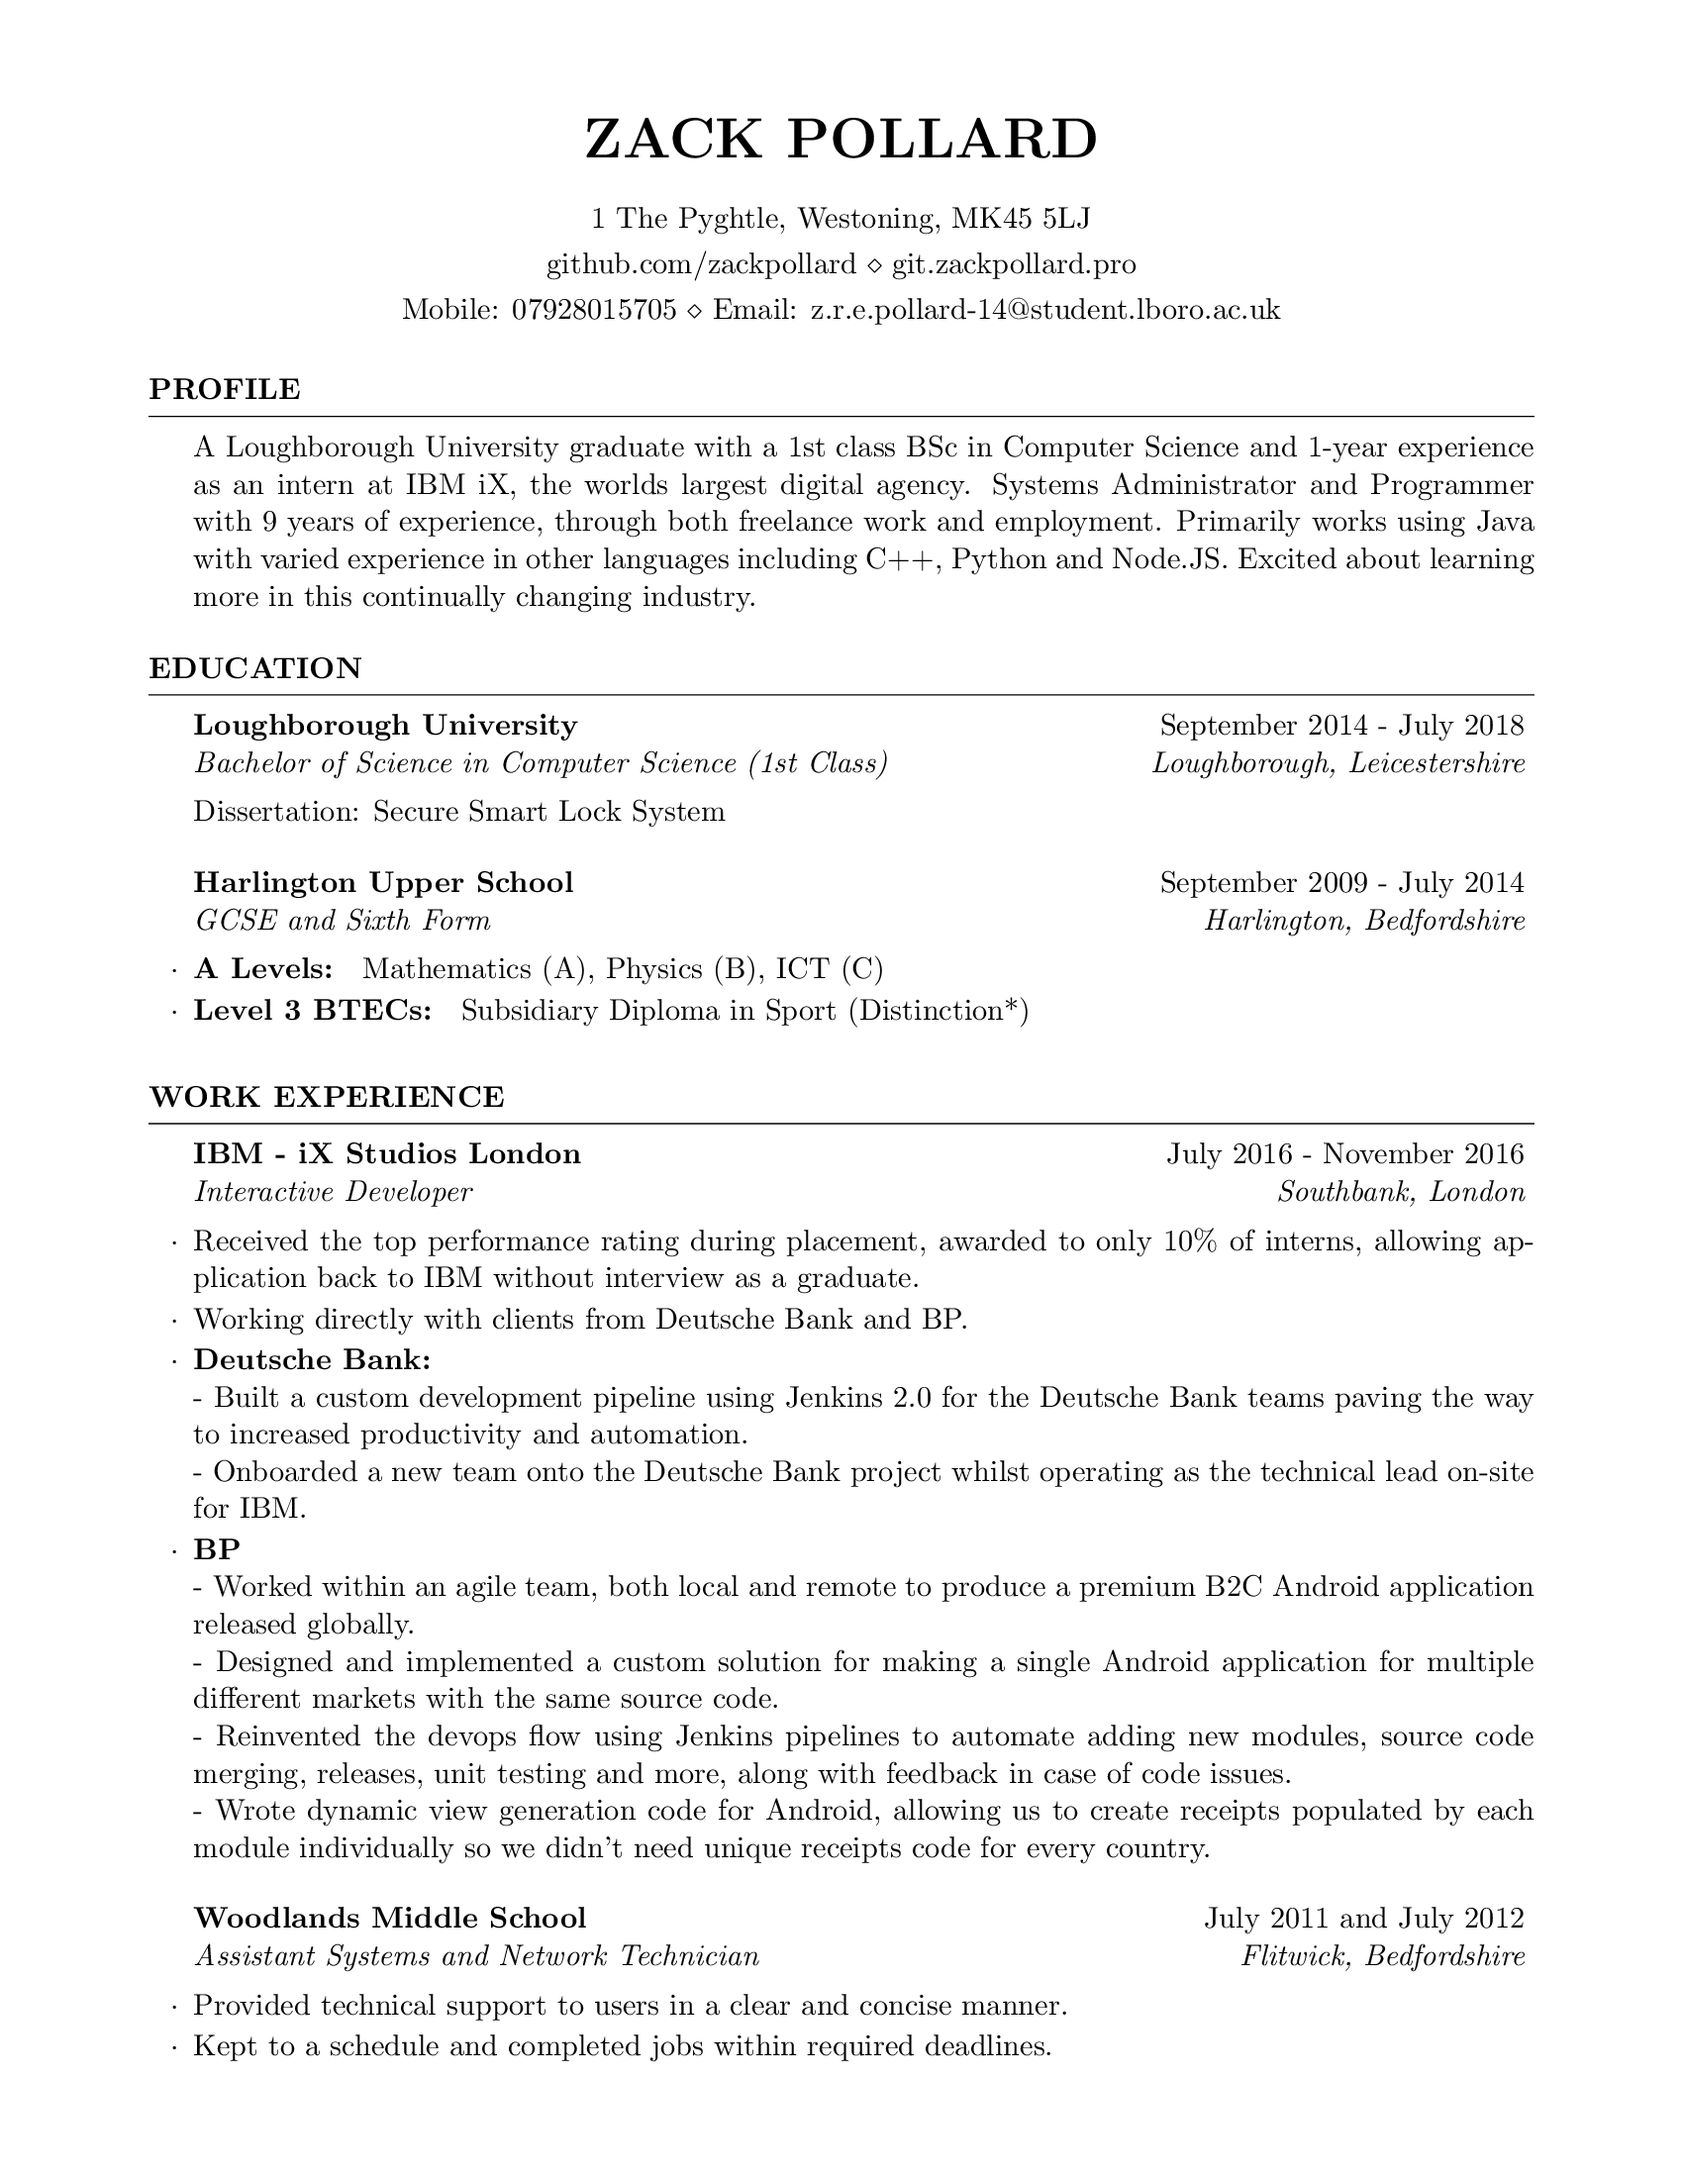
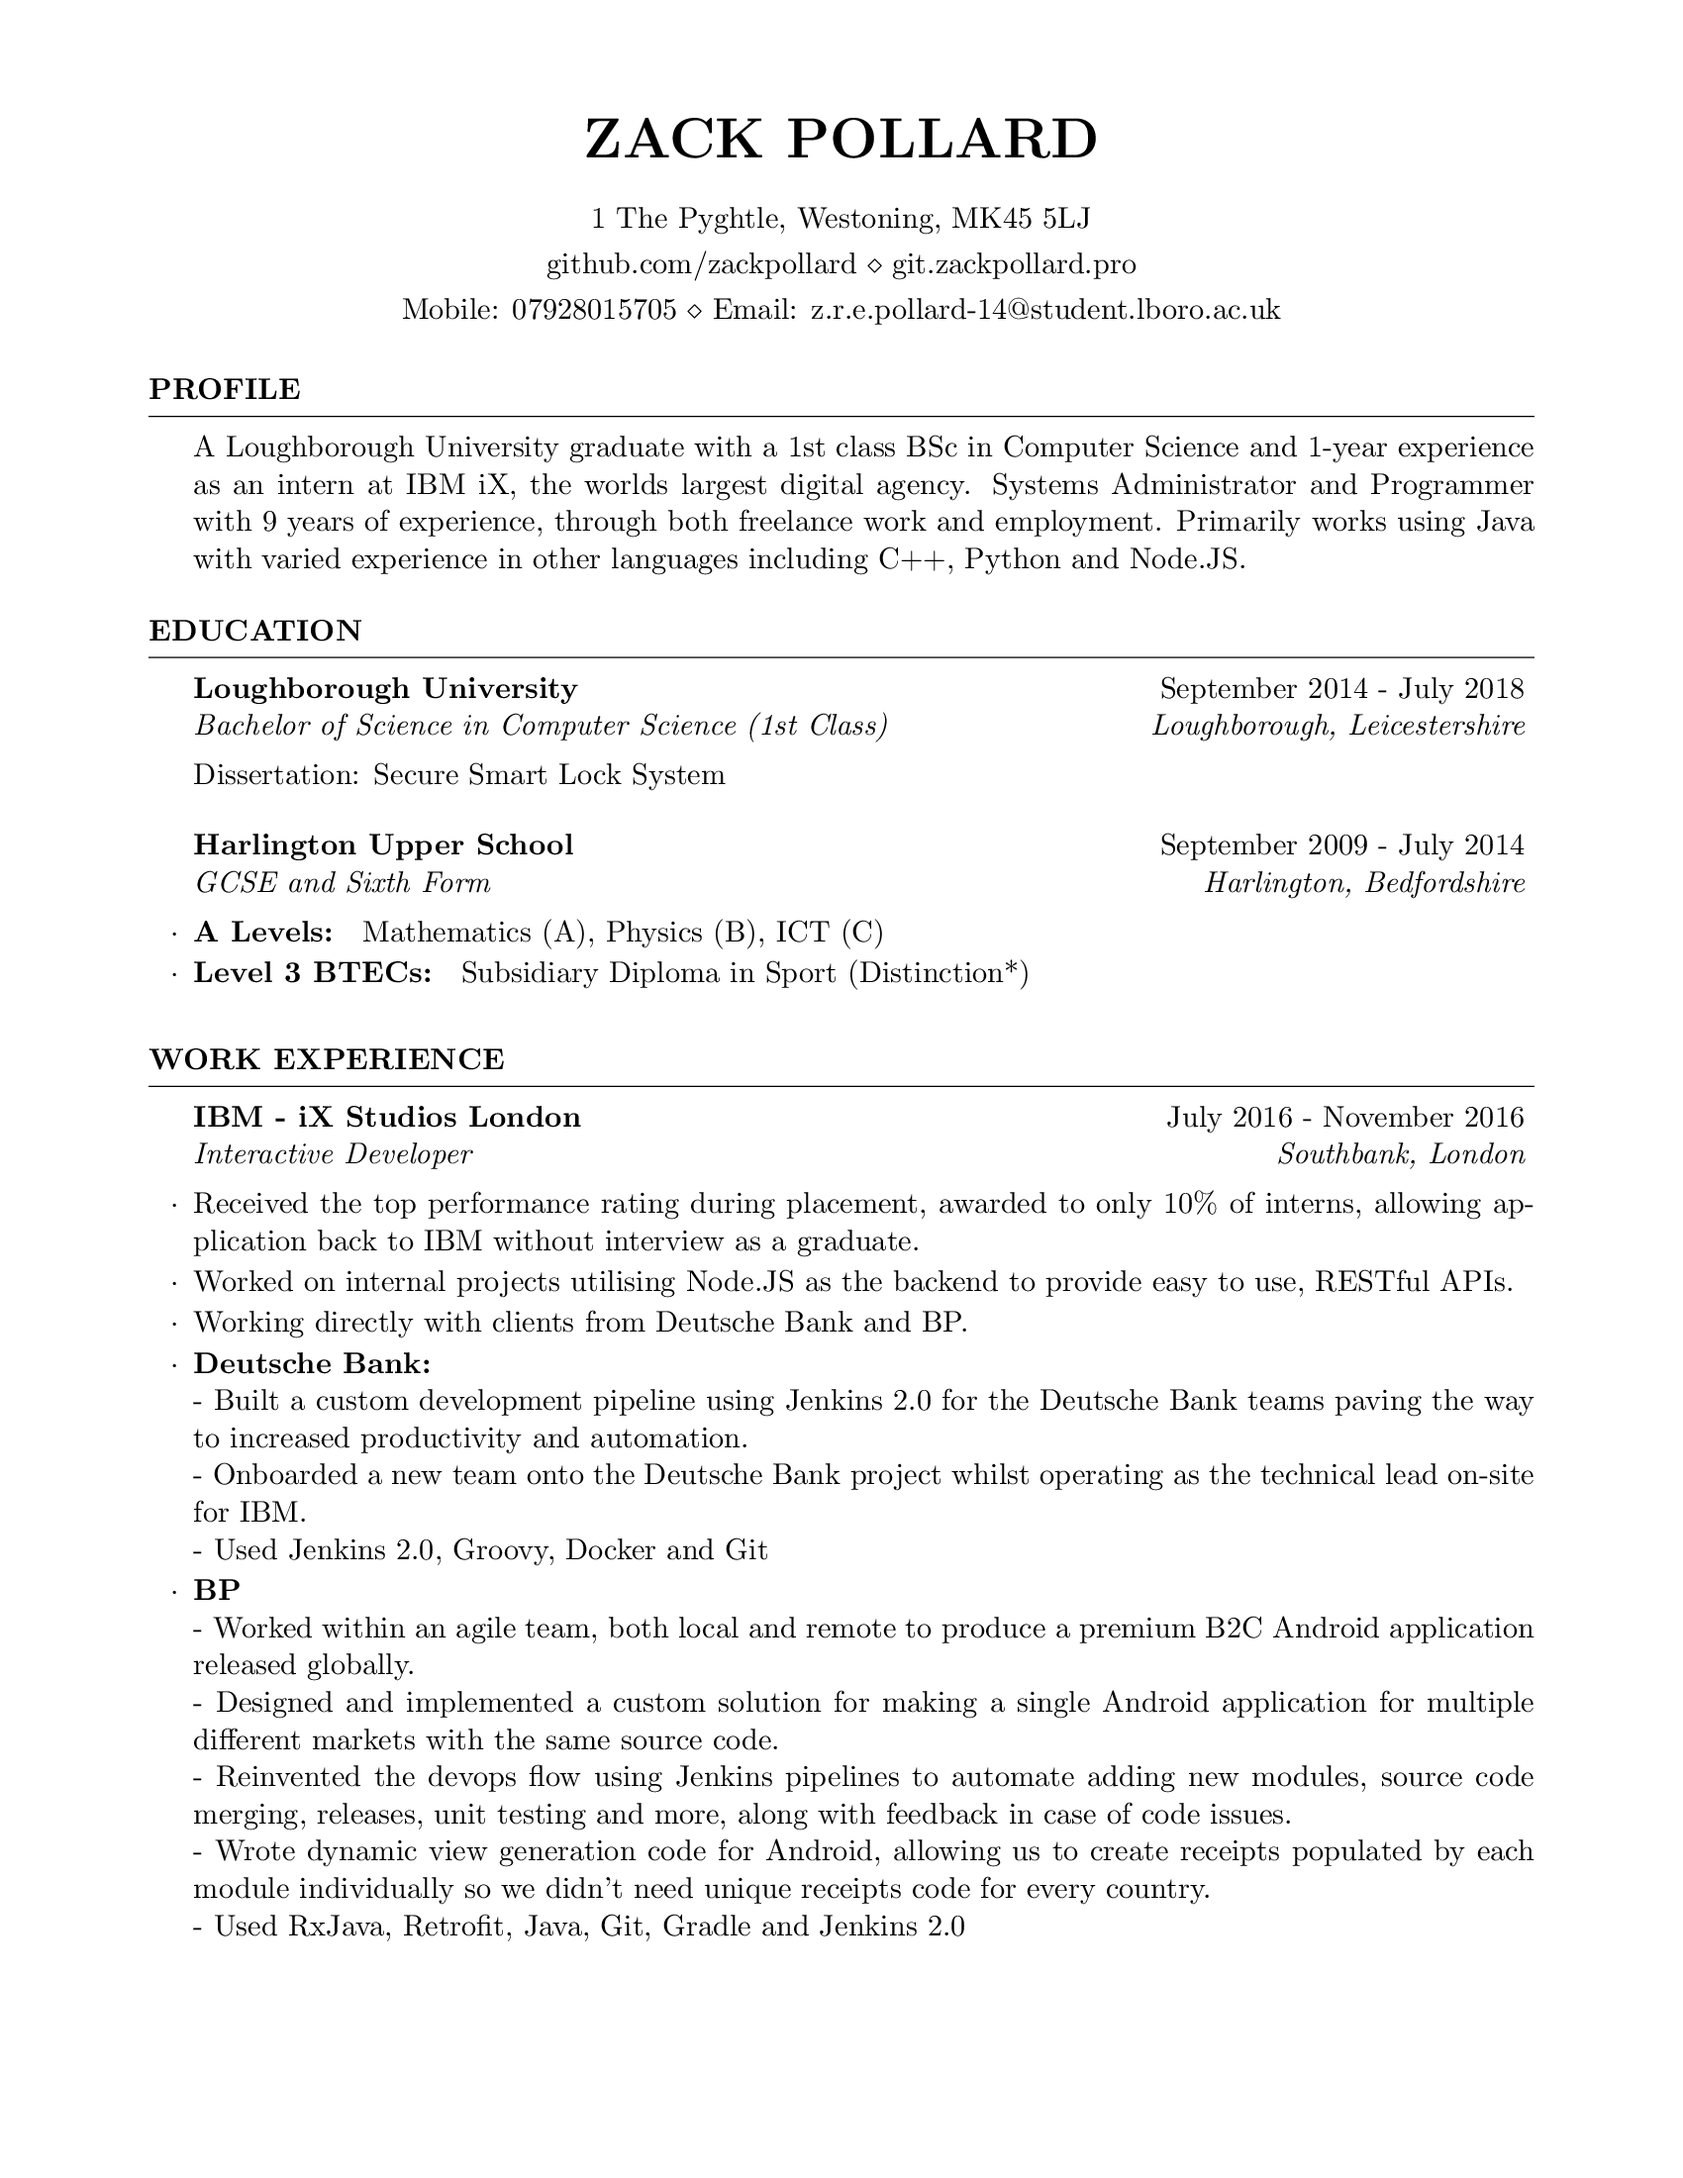
Update CV

diff --git a/cv.tex b/cv.tex
@@ -37,7 +37,7 @@
 
 \begin {rSection}{Profile}
 
-A Loughborough University graduate with a 1st class BSc in Computer Science and 1-year experience as an intern at IBM iX, the worlds largest digital agency. Systems Administrator and Programmer with 9 years of experience, through both freelance work and employment. Primarily works using Java with varied experience in other languages including C++, Python and Node.JS. Excited about learning more in this continually changing industry.
+A Loughborough University graduate with a 1st class BSc in Computer Science and 1-year experience as an intern at IBM iX, the worlds largest digital agency. Systems Administrator and Programmer with 9 years of experience, through both freelance work and employment. Primarily works using Java with varied experience in other languages including C++, Python and Node.JS.
 
 \end{rSection}
 
@@ -65,24 +65,26 @@ Dissertation: Secure Smart Lock System
 	
 \begin{rSubsection}{IBM - iX Studios London}{July 2016 - November 2016}{Interactive Developer}{Southbank, London}
 	\item Received the top performance rating during placement, awarded to only 10\% of interns, allowing application back to IBM without interview as a graduate.
+	\item Worked on internal projects utilising Node.JS as the backend to provide easy to use, RESTful APIs.
 	\item Working directly with clients from Deutsche Bank and BP.
 	\item \textbf{Deutsche Bank:}\\
 	- Built a custom development pipeline using Jenkins 2.0 for the Deutsche Bank teams paving the way to increased productivity and automation.\\
-	- Onboarded a new team onto the Deutsche Bank project whilst operating as the technical lead on-site for IBM.
+	- Onboarded a new team onto the Deutsche Bank project whilst operating as the technical lead on-site for IBM.\\
+	- Used Jenkins 2.0, Groovy, Docker and Git
 	\item \textbf{BP}\\
 	- Worked within an agile team, both local and remote to produce a premium B2C Android application released globally.\\
 	- Designed and implemented a custom solution for making a single Android application for multiple different markets with the same source code.\\
 	- Reinvented the devops flow using Jenkins pipelines to automate adding new modules, source code merging, releases, unit testing and more, along with feedback in case of code issues.\\
-	- Wrote dynamic view generation code for Android, allowing us to create receipts populated by each module individually so we didn't need unique receipts code for every country.
+	- Wrote dynamic view generation code for Android, allowing us to create receipts populated by each module individually so we didn't need unique receipts code for every country.\\
+	- Used RxJava, Retrofit, Java, Git, Gradle and Jenkins 2.0
 \end{rSubsection}
 
 %------------------------------------------------
-
+\newpage
 \begin{rSubsection}{Woodlands Middle School}{July 2011 and July 2012}{Assistant Systems and Network Technician}{Flitwick, Bedfordshire}
-	\item Provided technical support to users in a clear and concise manner.
 	\item Kept to a schedule and completed jobs within required deadlines.
 	\item Problem solving under pressure in time-sensitive situations.
-	\item Worked effectively with members of a team to coordinate network repair tasks in order to prevent interference with users on the network.
+	\item Worked effectively with members of a team to coordinate network repair tasks to prevent downtime.
 \end{rSubsection}
 
 %------------------------------------------------
@@ -91,7 +93,6 @@ Dissertation: Secure Smart Lock System
 \item Dealing with clients requirements on a daily basis.
 \item Managing time and providing accurate time frames for completion of projects.
 \item Working as part of a team on projects utilising git for version control.
-\item Persevering with problems to find acceptable solutions.
 \end{rSubsection}
 
 \end{rSection}
@@ -102,7 +103,7 @@ Dissertation: Secure Smart Lock System
 
 \begin{rSectionList}{Key Skills}
 \item \textbf{Problem Solving:}
-Used extensively during my time at IBM, one example was when we needed to re-write the Android application to work in different countries with some code being slightly different. We worked on building a custom solution so that we could have individual modules that could be put into any application, and the code would adapt itself based on what modules were loaded when the application started up.
+Used extensively during my time at IBM, one example was when we needed to re-write the Android application to work in different countries with some code being slightly modified. We worked on building a custom solution so that we could have individual modules that could be put into any application, and the code would adapt itself based on what modules were loaded when the application started up.
 
 \item \textbf{Communication:} 
 During my time at IBM I worked with clients on and off-site, as well as having to communicate effectively with remote teams during stand-ups and throughout the day. During my freelance work, I had to continually communicate with remote clients to keep them up to date with progress and establish requirements.
@@ -121,8 +122,7 @@ Demonstrated throughout my time at IBM, specifically due to working in small agi
 Languages 	& Java, C++, Python, Lua, HTML, CSS, PHP, JavaScript, Node.JS, Groovy \\
 Data Structures & XML, JSON, YAML \\
 Databases & MySQL, PostgreSQL, MongoDB \\
-Tools 	& Git, Vim, Bash, Maven, Jenkins, LaTeX, KVM, SSH, VNC, JIRA, Docker,\\
-		& Google Cloud, IBM Bluemix, RxJava, Retrofit \\
+Tools 	& Git, Jenkins, LaTeX, KVM, SSH, Docker, Google Cloud, RxJava, Retrofit \\
 Operating Systems 	& CentOS 6/7 (Redhat), Debian, Arch (Arch), UnRAID, Cisco IOS
 \end{tabular}
 
@@ -138,8 +138,7 @@ Operating Systems 	& CentOS 6/7 (Redhat), Debian, Arch (Arch), UnRAID, Cisco IOS
 Saxophone & ABRSM Grade 8 \\
 Piano & ABRSM Grade 6 \\
 Music Theory & ABRSM Grade 5 \\
-Kayaking \& Canoeing & Canoe England BCU 2 Star \\
-Full UK Clean Driving Licence
+Kayaking \& Canoeing & Canoe England BCU 2 Star
 \end{tabular}
 
 \end{rSection}
